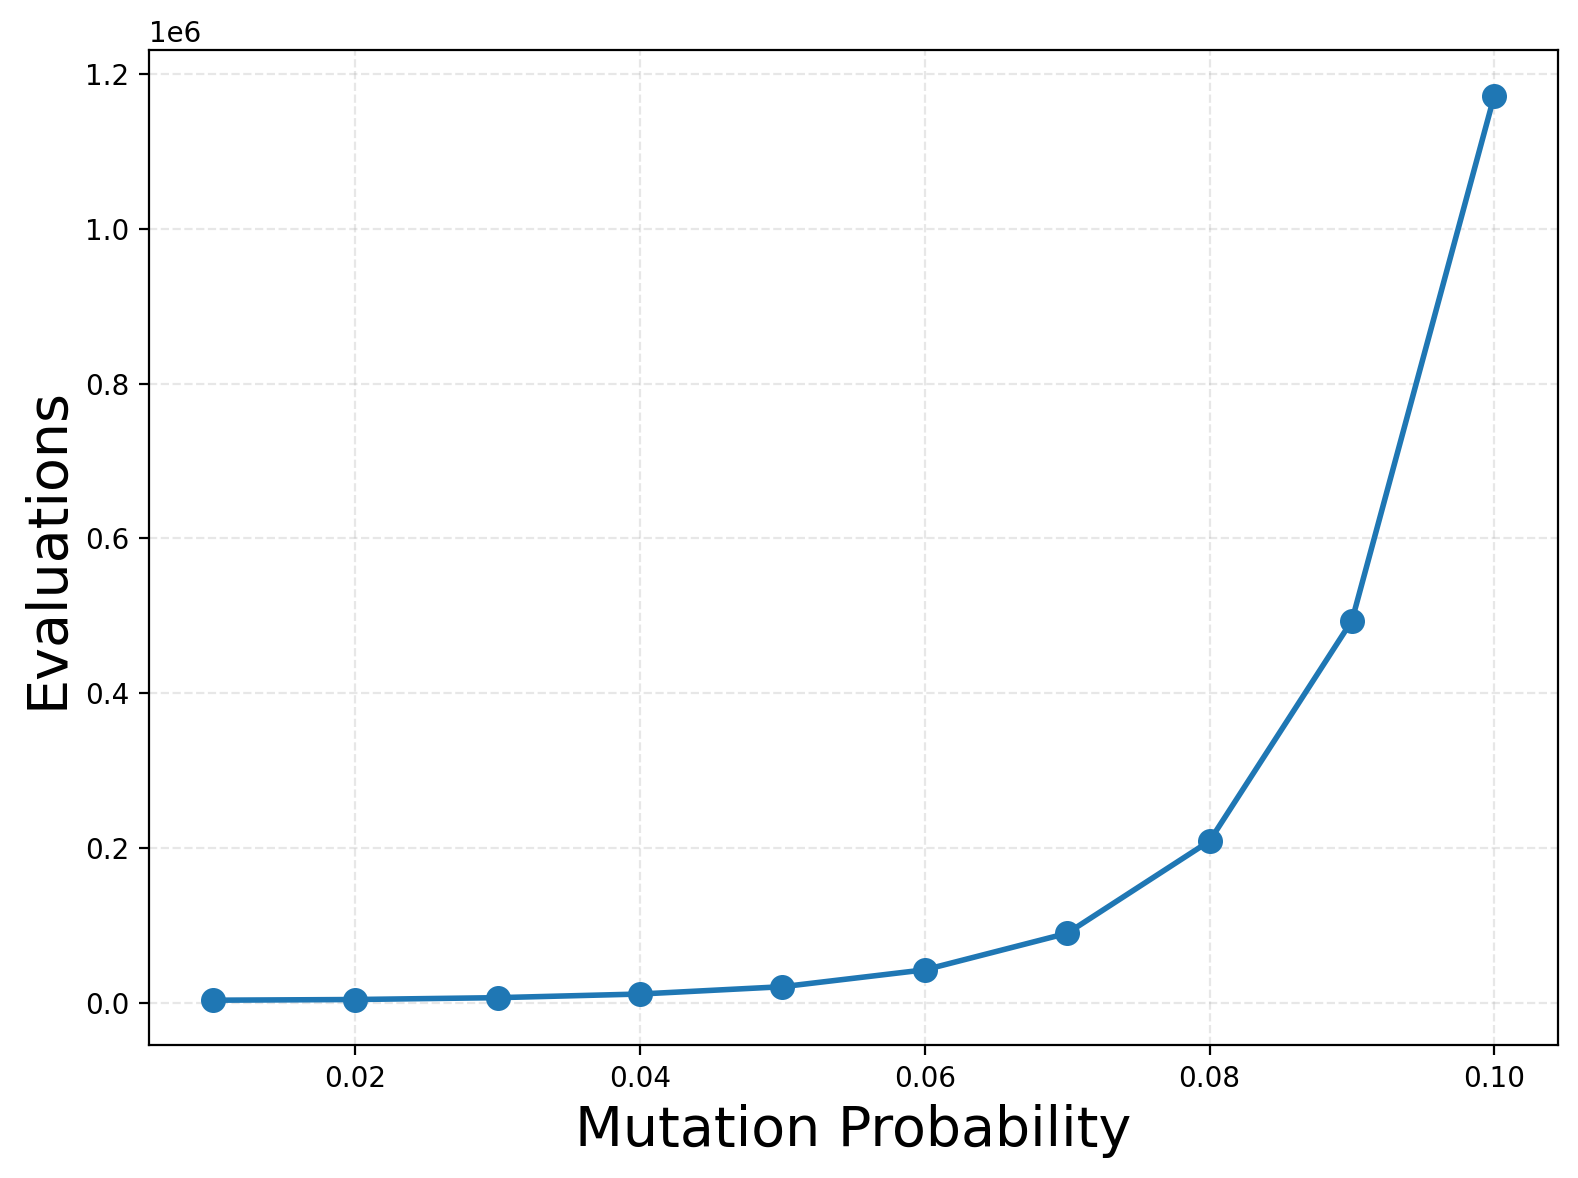
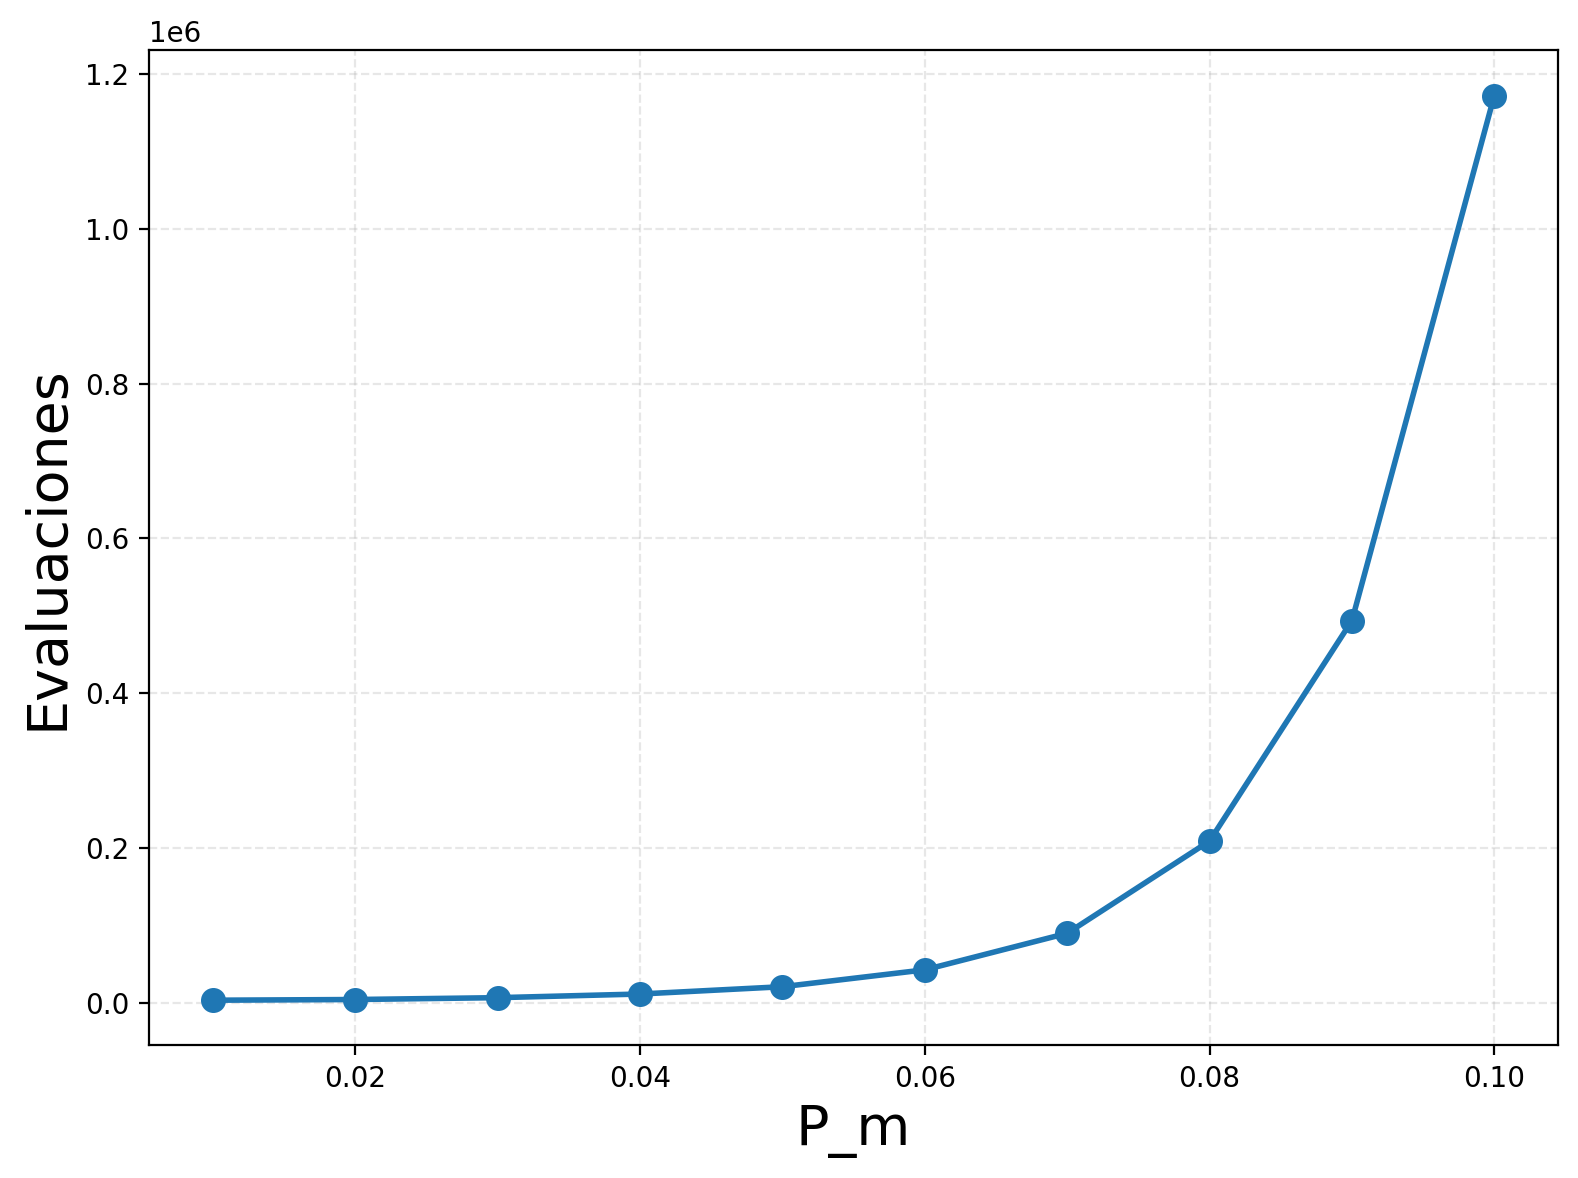
New plots

Changed region(s): [[0.0, 0.3056, 0.0621, 0.6418], [0.3416, 0.9168, 0.7142, 0.9779]]

diff --git a/eval.py b/eval.py
@@ -120,24 +120,26 @@ def generate_stats(
 
 
 def plot_single_parameter(
-    stats: pd.DataFrame,
+    stats_path: str,
     xlabel: str,
     ylabel: str,
     img_path: str | None = None,
     group_param: str | None = None,
     param_x_name: str | None = None,
+    param_y_name: str | None = None,
 ) -> None:
-    stats_reset = stats.reset_index()
+    stats = pd.read_csv(stats_path)
     param_x_name = param_x_name if param_x_name else xlabel
+    param_y_name = param_y_name if param_y_name else ylabel
 
     plt.figure(figsize=(8, 6))
 
     if group_param:
-        for hue_value in stats_reset[group_param].unique():
-            data = stats_reset[stats_reset[group_param] == hue_value]
+        for hue_value in stats[group_param].unique():
+            data = stats[stats[group_param] == hue_value]
             plt.plot(
                 data[param_x_name],
-                data[f"{ylabel}_mean"],
+                data[f"{param_y_name}_mean"],
                 marker="o",
                 linewidth=2,
                 markersize=8,
@@ -145,8 +147,8 @@ def plot_single_parameter(
             )
     else:
         plt.plot(
-            stats_reset[param_x_name],
-            stats_reset[f"{ylabel}_mean"],
+            stats[param_x_name],
+            stats[f"{param_y_name}_mean"],
             marker="o",
             linewidth=2,
             markersize=8,
@@ -171,17 +173,22 @@ def plot_heatmap(
     ylabel: str,
     evals_folder_name: str,
     img_path: str | None = None,
+    param_y_name: str | None = None,
 ) -> None:
     df = pd.read_csv(f"./{evals_folder_name}/size={size}/results.csv")
 
+    param_y_name = param_y_name if param_y_name else ylabel
+
     pivot_data = (
-        df.groupby(["Mutation Probability", "Crossover Probability"])[ylabel]
+        df.groupby(["Mutation Probability", "Crossover Probability"])[param_y_name]
         .mean()
         .reset_index()
     )
 
     pivot_table = pivot_data.pivot(
-        index="Mutation Probability", columns="Crossover Probability", values=ylabel
+        index="Mutation Probability",
+        columns="Crossover Probability",
+        values=param_y_name,
     )
 
     plt.figure(figsize=(12, 8))
@@ -197,8 +204,8 @@ def plot_heatmap(
     cbar = ax.collections[0].colorbar  # obtener el objeto Colorbar
     assert cbar is not None
     cbar.set_label(ylabel, fontsize=20)
-    plt.xlabel("Crossover Probability", fontsize=20)
-    plt.ylabel("Mutation Probability", fontsize=20)
+    plt.xlabel("P_c", fontsize=20)
+    plt.ylabel("P_m", fontsize=20)
     plt.tight_layout()
 
     if img_path:
@@ -211,6 +218,12 @@ def get_args() -> argparse.ArgumentParser:
     parser.add_argument(
         "--global-optimum",
         "-g",
+        action="store_true",
+        help="Stop algorithm when global optimum is found",
+    )
+    parser.add_argument(
+        "--eval",
+        "-e",
         action="store_true",
         help="Stop algorithm when global optimum is found",
     )
@@ -232,57 +245,67 @@ def main():
         size_eval_folder.mkdir(exist_ok=True, parents=True)
         results_filename = size_eval_folder / "results"
         stats_filename = size_eval_folder / "stats"
-
-        # print("Starting evaluations for problem size", problem_size)
-        #
-        # df = eval_results(problem_size, function_evaluations)
-        # df.to_csv(f"{results_filename}.csv")
-
-        # print("Generating statistics for problem size", problem_size)
-        #
-        # mix_stats, cross_stats, mut_stats = generate_stats(df, result_column)
-        #
-        # mix_stats.to_csv(f"{stats_filename}_mix.csv")
-        # cross_stats.to_csv(f"{stats_filename}_cross.csv")
-        # mut_stats.to_csv(f"{stats_filename}_mut.csv")
-
         sigle_param_filename = size_eval_folder / result_column
 
-        # plot_single_parameter(
-        #     cross_stats,
-        #     xlabel="Crossover Probability",
-        #     ylabel=result_column,
-        #     img_path=f"{sigle_param_filename}_by_cross.png",
-        # )
-        #
-        # plot_single_parameter(
-        #     mut_stats,
-        #     xlabel="Mutation Probability",
-        #     ylabel=result_column,
-        #     img_path=f"{sigle_param_filename}_by_mut.png",
-        # )
-        #
-        # plot_single_parameter(
-        #     mix_stats,
-        #     xlabel="Mutation Probability",
-        #     ylabel=result_column,
-        #     img_path=f"{sigle_param_filename}_by_mix_mut.png",
-        #     group_param="Crossover Probability",
-        # )
-        #
-        # plot_single_parameter(
-        #     mix_stats,
-        #     xlabel="Crossover Probability",
-        #     ylabel=result_column,
-        #     img_path=f"{sigle_param_filename}_by_mix_cross.png",
-        #     group_param="Mutation Probability",
-        # )
+        if args.eval:
+            print("Starting evaluations for problem size", problem_size)
+
+            df = eval_results(problem_size, function_evaluations)
+            df.to_csv(f"{results_filename}.csv")
+
+            print("Generating statistics for problem size", problem_size)
+
+            mix_stats, cross_stats, mut_stats = generate_stats(df, result_column)
+
+            mix_stats.to_csv(f"{stats_filename}_mix.csv")
+            cross_stats.to_csv(f"{stats_filename}_cross.csv")
+            mut_stats.to_csv(f"{stats_filename}_mut.csv")
+            return
+
+        plot_single_parameter(
+            f"{stats_filename}_cross.csv",
+            xlabel="P_c",
+            ylabel="Fitness" if not args.global_optimum else "Evaluaciones",
+            img_path=f"{sigle_param_filename}_by_cross.png",
+            param_x_name="Crossover Probability",
+            param_y_name=result_column,
+        )
+
+        plot_single_parameter(
+            f"{stats_filename}_mut.csv",
+            xlabel="P_m",
+            ylabel="Fitness" if not args.global_optimum else "Evaluaciones",
+            img_path=f"{sigle_param_filename}_by_mut.png",
+            param_x_name="Mutation Probability",
+            param_y_name=result_column,
+        )
+
+        plot_single_parameter(
+            f"{stats_filename}_mix.csv",
+            xlabel="P_m",
+            ylabel="Fitness" if not args.global_optimum else "Evaluaciones",
+            img_path=f"{sigle_param_filename}_by_mix_mut.png",
+            group_param="Crossover Probability",
+            param_x_name="Mutation Probability",
+            param_y_name=result_column,
+        )
+
+        plot_single_parameter(
+            f"{stats_filename}_mix.csv",
+            xlabel="P_c",
+            ylabel="Fitness" if not args.global_optimum else "Evaluaciones",
+            img_path=f"{sigle_param_filename}_by_mix_cross.png",
+            group_param="Mutation Probability",
+            param_x_name="Crossover Probability",
+            param_y_name=result_column,
+        )
 
         plot_heatmap(
             size=problem_size,
-            ylabel=result_column,
+            ylabel="Fitness" if not args.global_optimum else "Evaluaciones",
             evals_folder_name=evals_folder_name,
             img_path=f"{sigle_param_filename}_heatmap.png",
+            param_y_name=result_column,
         )
 
 
